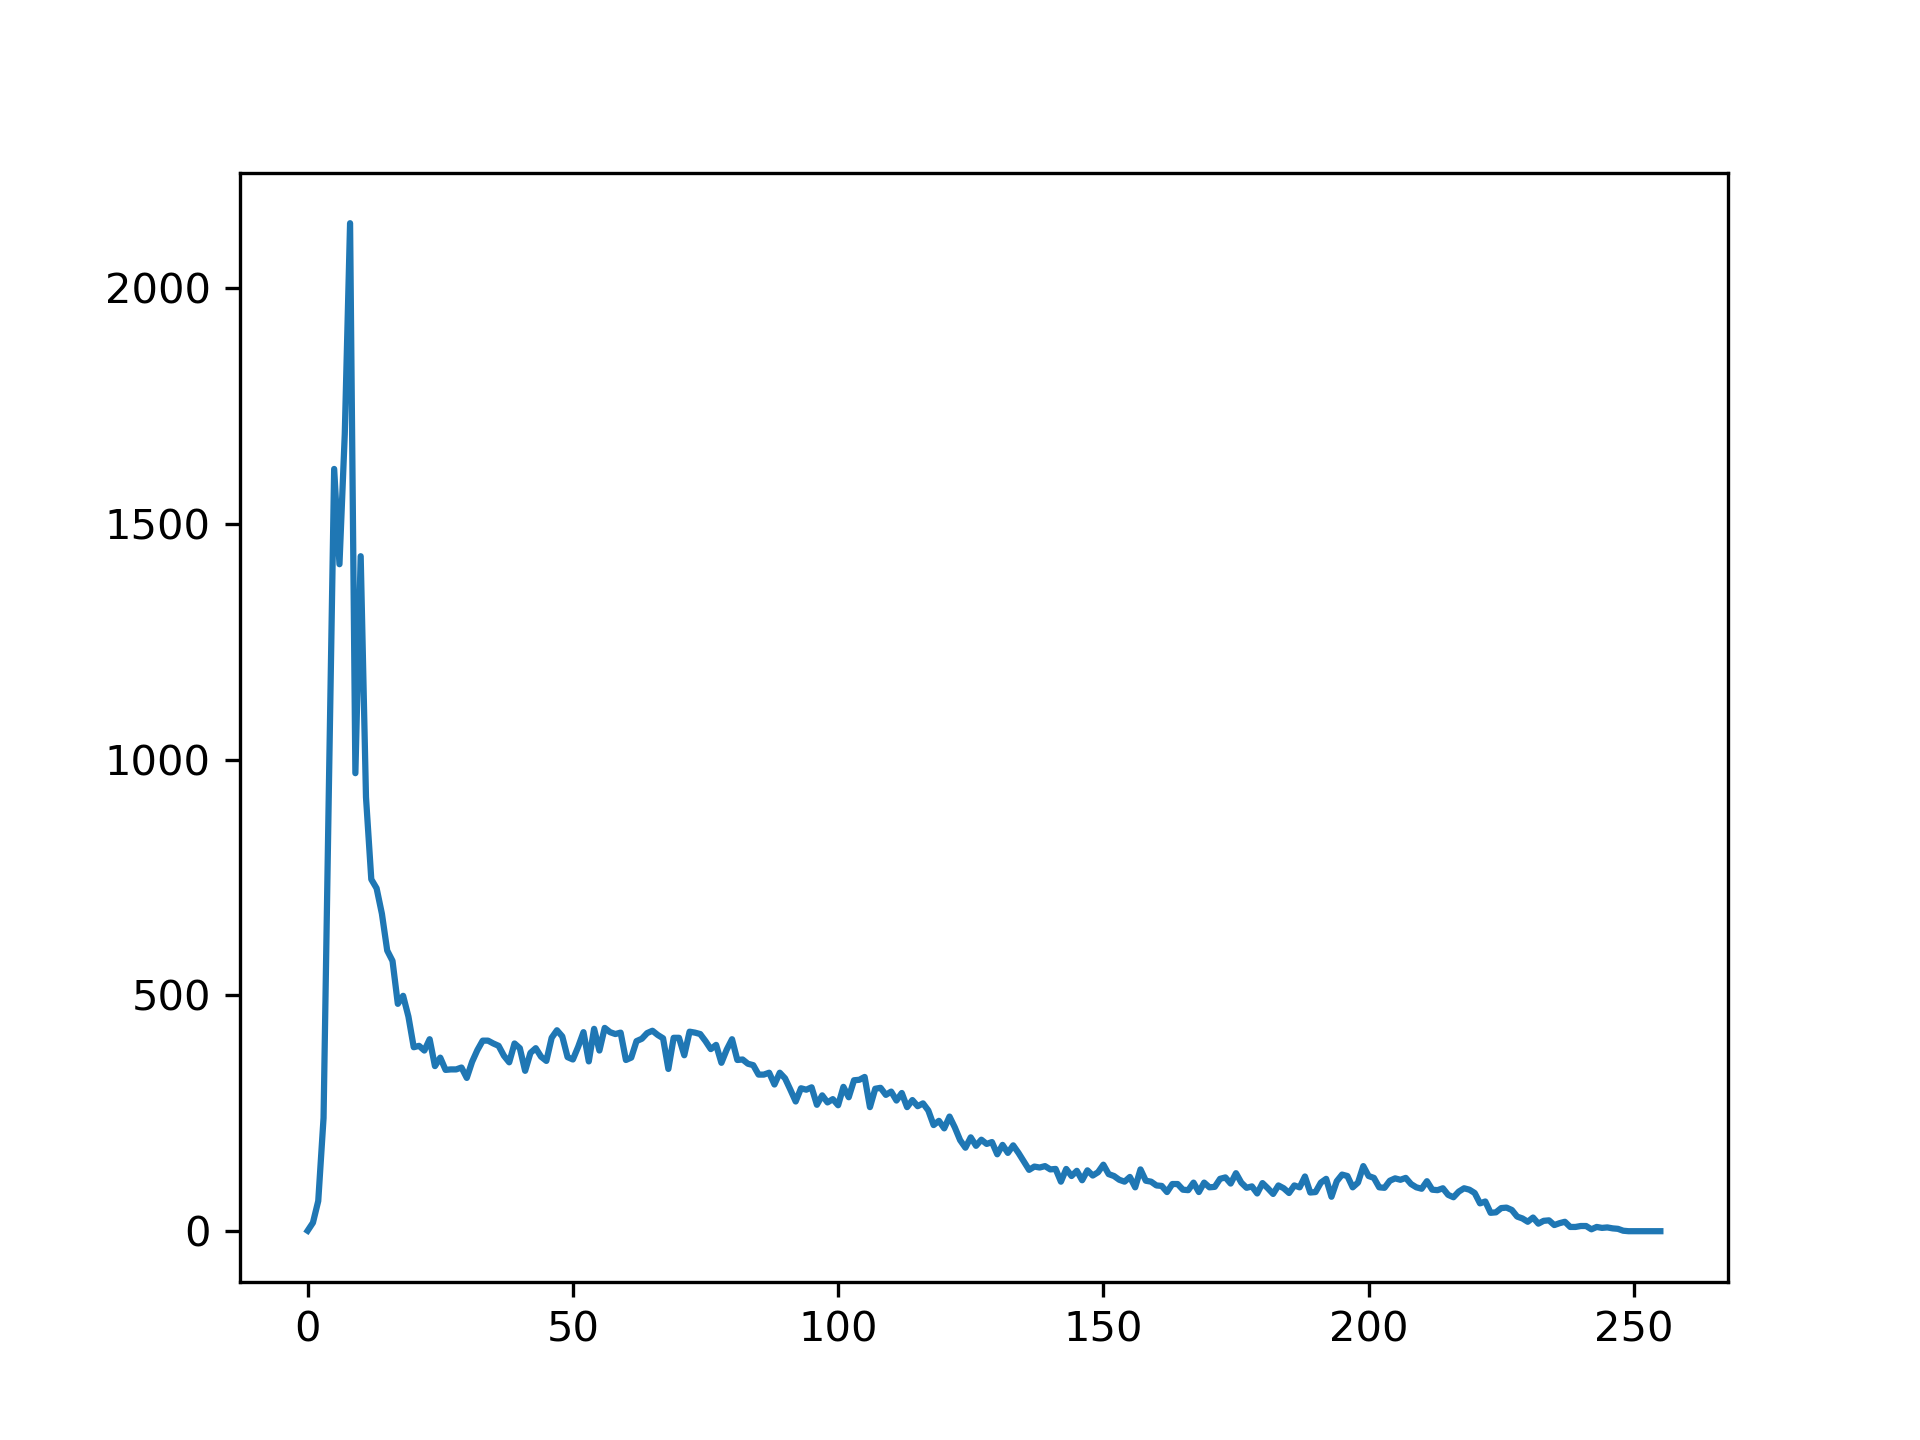
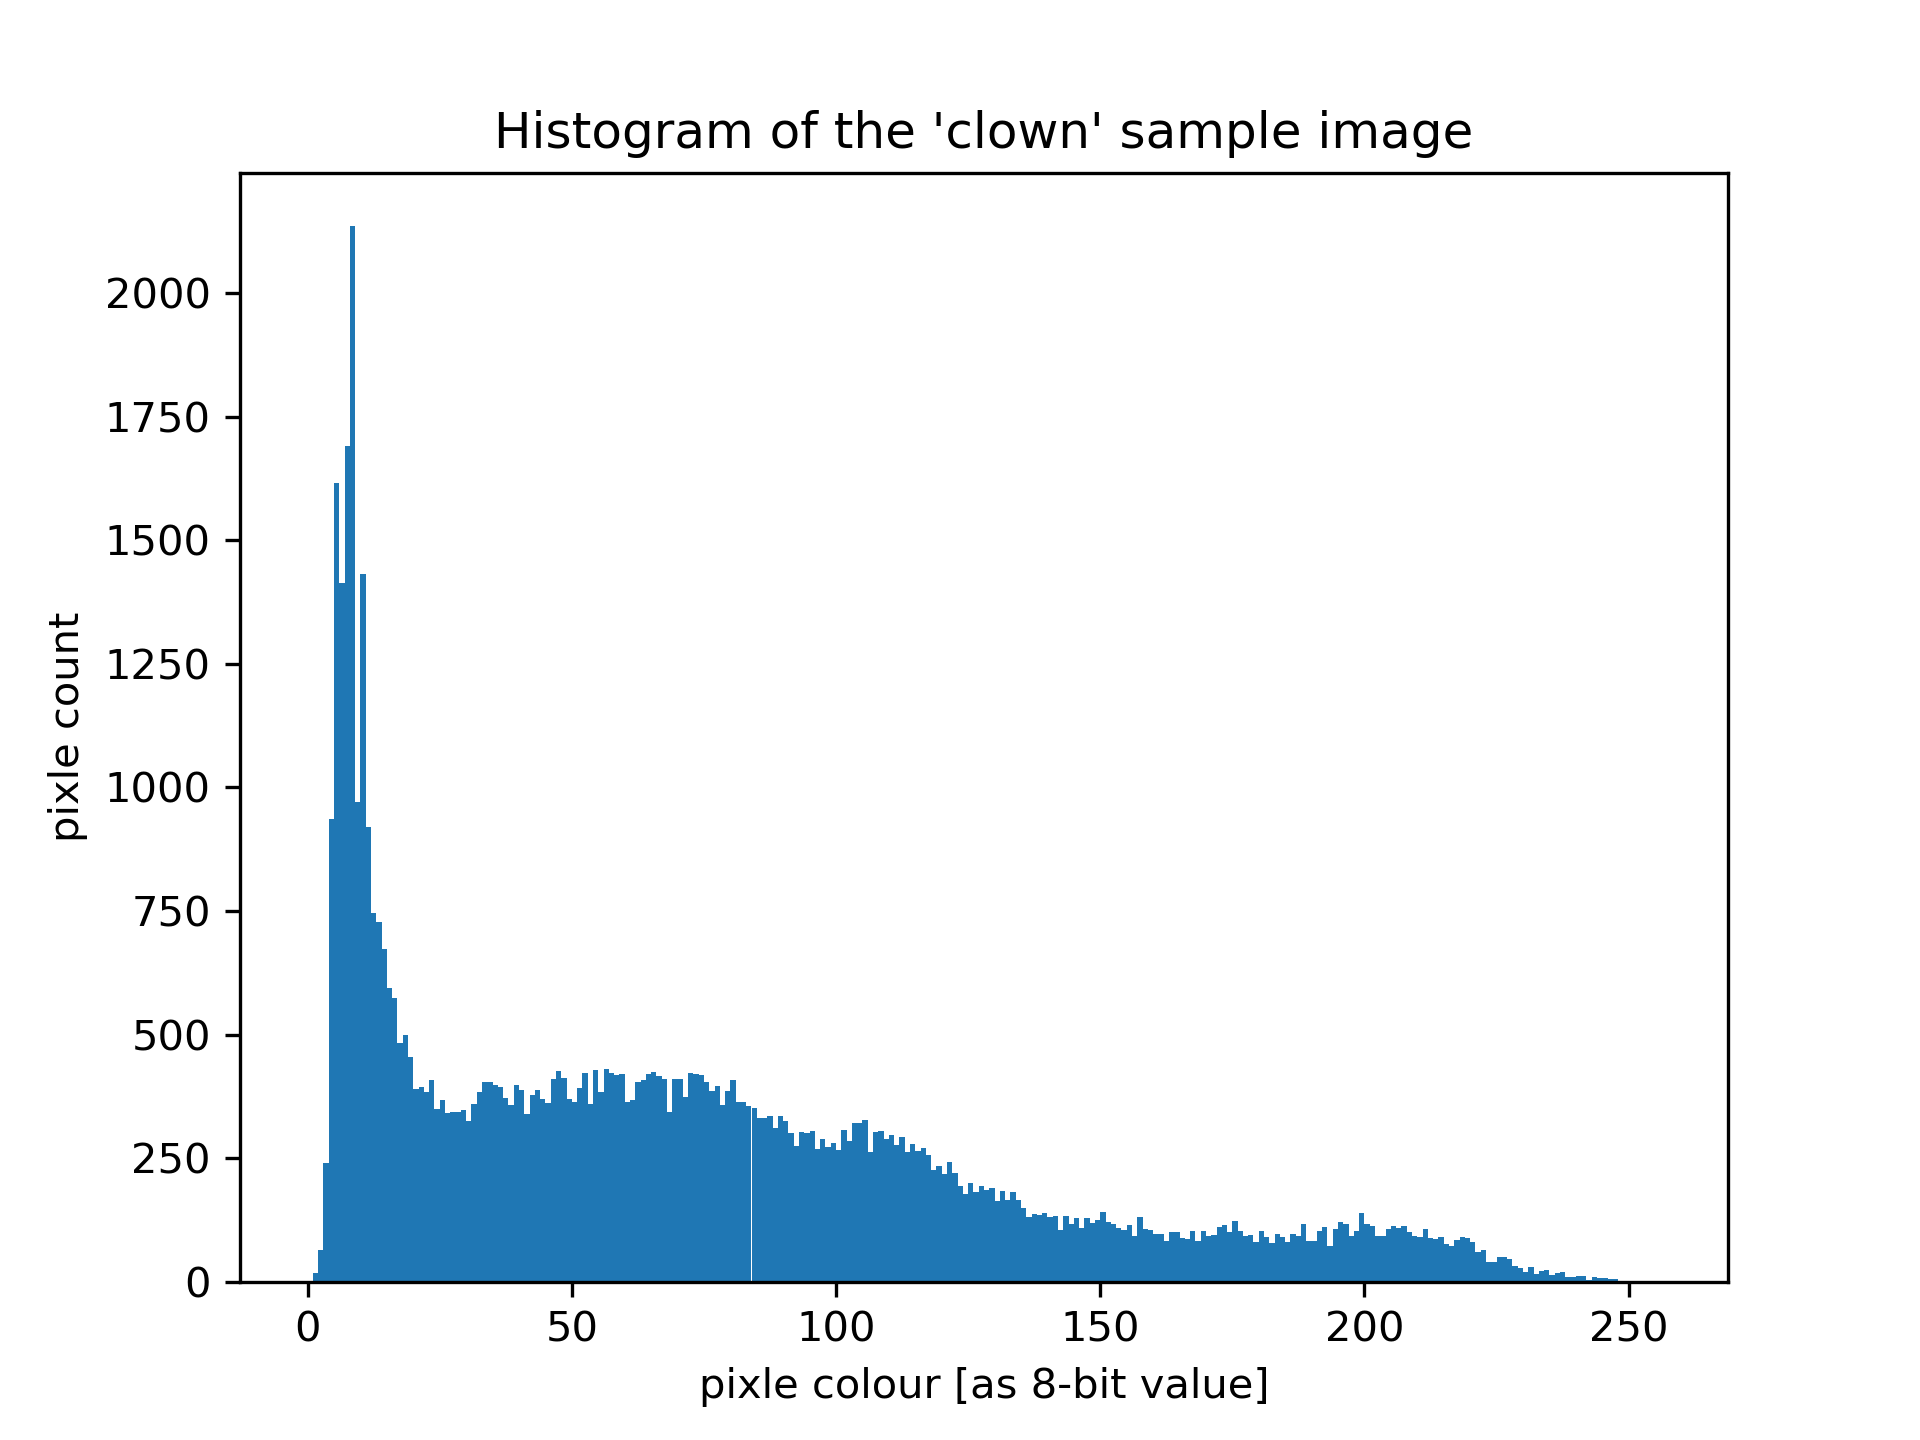
labeling the graph

diff --git a/plot.py b/plot.py
@@ -9,6 +9,9 @@ value, count = np.loadtxt(
     dtype=float,
     unpack=True)
 
-plt.plot(value, count)
-
+plt.bar(value, count, width=1, align="edge")
+plt.title("Histogram of the 'clown' sample image")
+plt.xlabel("pixle colour [as 8-bit value]")
+plt.ylabel("pixle count")
 plt.savefig("Histogram.png", dpi=300)
+plt.show()
